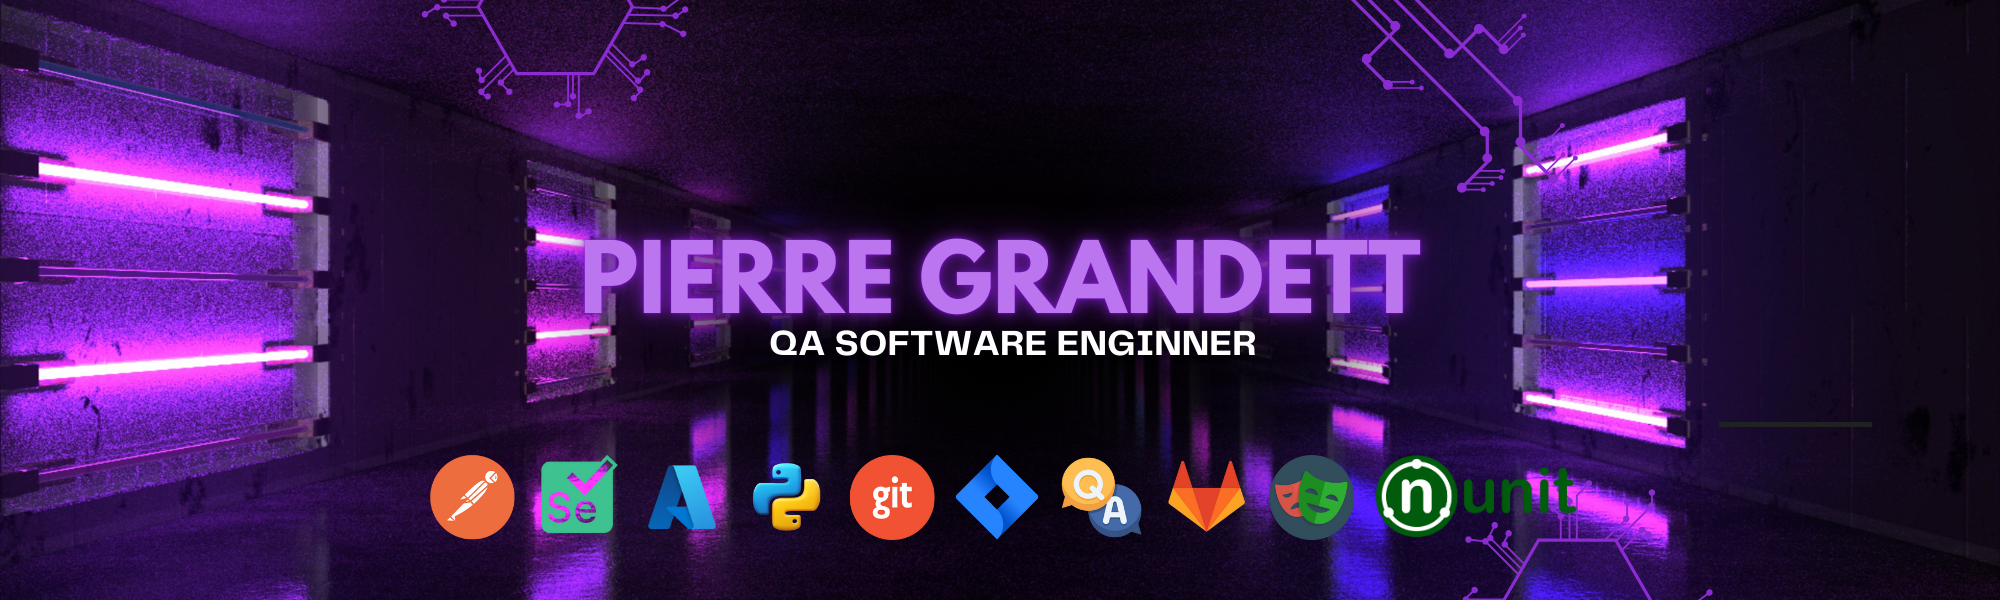
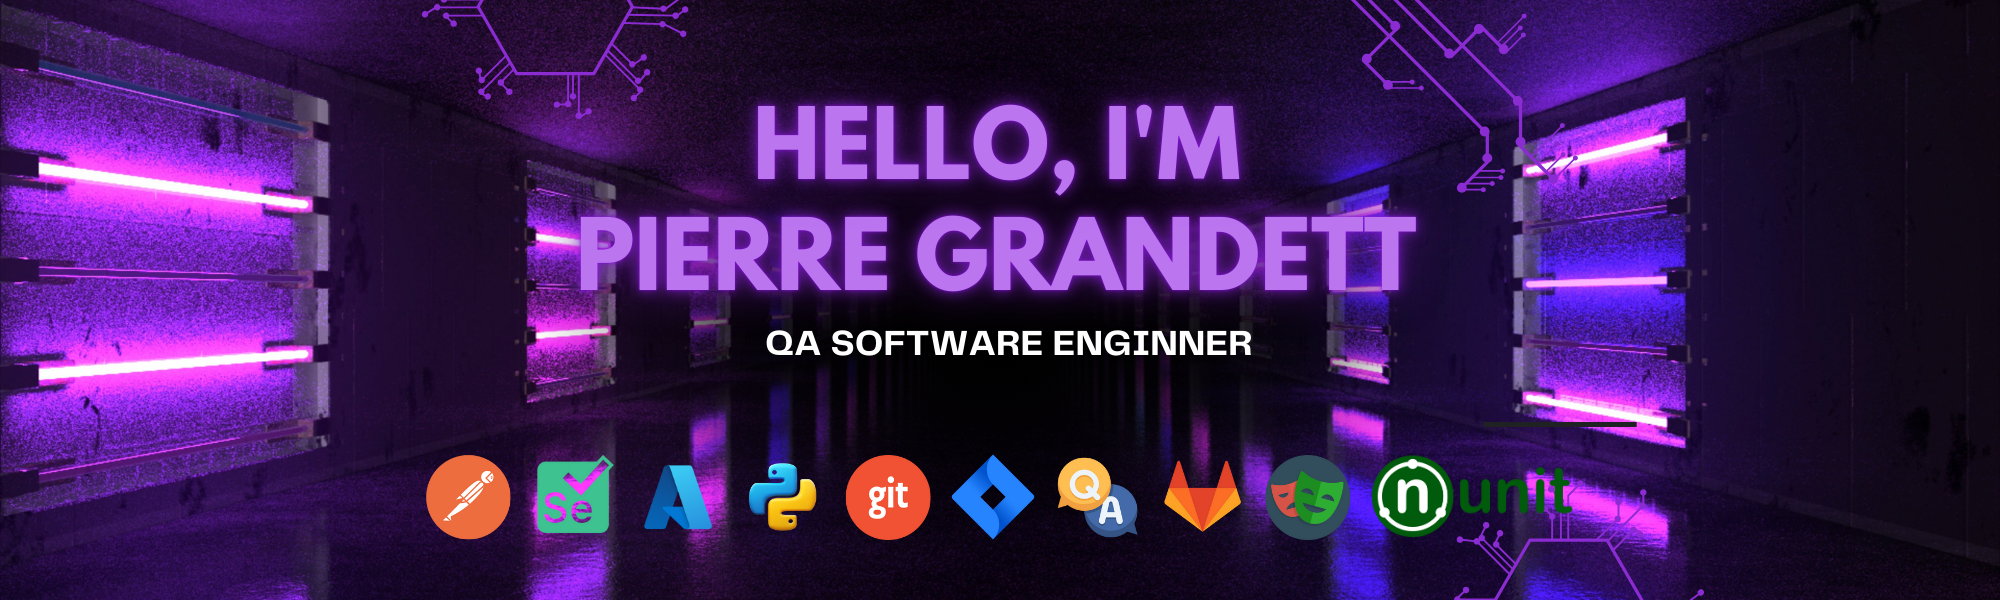
Fusión de historias no relacionadas

diff --git a/README.md b/README.md
@@ -1,11 +1,16 @@
-<p align='center'>
-  <img src='https://raw.githubusercontent.com/DevelUps/DevelUps/master/Assets/banner-github-pierre-grandett.png' alt='Banner de Pierre Grandett' width='100%'/>
-</p>
 
 
 
 
-# <img src="https://media3.giphy.com/media/v1.Y2lkPTc5MGI3NjExeHp5OTR5YXEzZ3E5NXg0emJyczZkdjV4OWpjM28zdWtuYmZlYmUxbyZlcD12MV9pbnRlcm5hbF9naWZfYnlfaWQmY3Q9Zw/rcE4NmvORkx9u/giphy.gif" width="100"/> Hello, I'm [<span style='color:#0A66C2'>Pierre Grandett</span>](https://www.linkedin.com/in/pierregett/)
+
+
+
+
+
+<h1 align="center">
+  <img src="https://media3.giphy.com/media/v1.Y2lkPTc5MGI3NjExeHp5OTR5YXEzZ3E5NXg0emJyczZkdjV4OWpjM28zdWtuYmZlYmUxbyZlcD12MV9pbnRlcm5hbF9naWZfYnlfaWQmY3Q9Zw/rcE4NmvORkx9u/giphy.gif" width="100"/> 
+  About Me
+</h1>
 
 
 
@@ -14,7 +19,7 @@
 [![GitHub](https://img.shields.io/badge/GitHub-%23181717.svg?style=for-the-badge&logo=github&logoColor=white)](https://github.com/DevelUps)
 [![Email](https://img.shields.io/badge/Email-%23D14836.svg?style=for-the-badge&logo=gmail&logoColor=white)](mailto:pierregrandett@gmail.com)
 
-## 👨💻 Sobre Mí
+
 
 ## 🛠 Tecnologías & Herramientas
 
